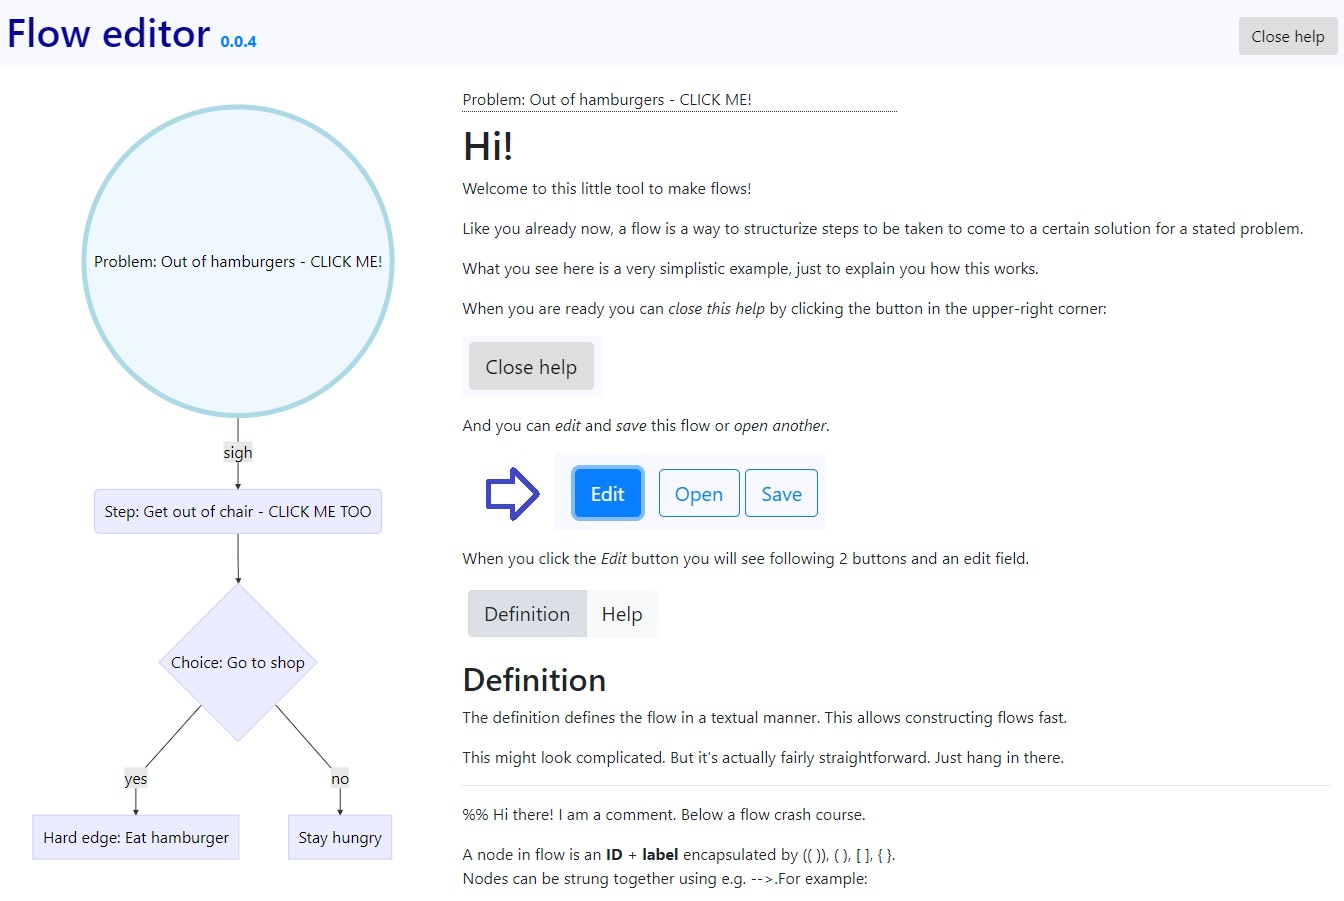
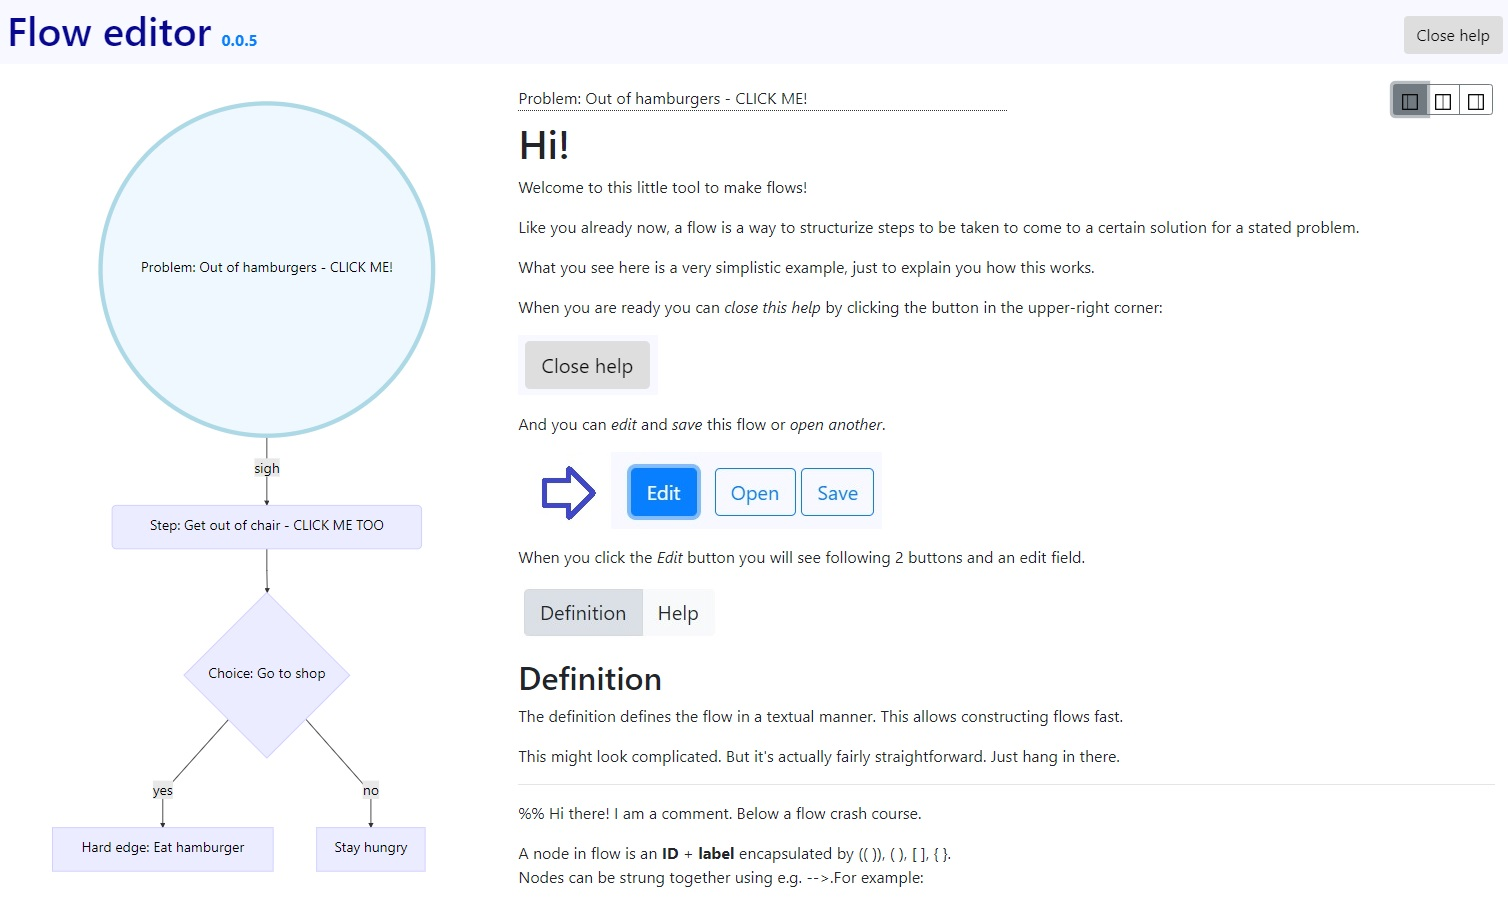
#6

diff --git a/js/main.js b/js/main.js
@@ -23,12 +23,15 @@ let converter = new showdown.Converter({
 let delayRenderingTimeout;
 let wasEditPaneFirstTimeVisible = false;
 let graphDivColumnClass = columnClasses.full;
+let graphDivColumnClassSized = columnClasses.half;
+let otherColumnClassSized = columnClasses.half;
 let originalSvgWidth;
 let editState = editStates.graph;
 let errorText = '';
 let isEditPaneVisible = false;
 let windowScrollY = 0;
 let currentSelectedNode;
+let currentSelectedNodeId;
 
 let definition = `%% Hi there! I am a comment. Below a flow crash course.
 
@@ -411,6 +414,7 @@ const findNodeLayer = (nodeId) => {
 const bindNodeClick = () => {
     $('#graph-diagram .nodes .node').click(function () {
         $('#help-pane').hide();
+        $('[data-toggle="tooltip"]').tooltip('dispose');
 
         windowScrollY = window.pageYOffset;
 
@@ -425,6 +429,7 @@ const bindNodeClick = () => {
         if (currentSelectedNode) {
             currentSelectedNode.removeClass('nodeSelected');
         }
+        currentSelectedNodeId = $(this)[0].id;
         currentSelectedNode = $($(this)[0].children[0]);
         currentSelectedNode.addClass('nodeSelected');
         // behavior: smooth is not used because it results in a wrong offset of #nodeHelp.
@@ -433,8 +438,10 @@ const bindNodeClick = () => {
 
         $('#help-pane').html(nodeHelp);
 
-        graphDivColumnClass = columnClasses.veryNarrow;
+        graphDivColumnClass = graphDivColumnClassSized;
         $('#graph-div')[0].className = graphDivColumnClass;
+        $('#edit-pane')[0].className = otherColumnClassSized;
+        $('#help-pane')[0].className = otherColumnClassSized;
 
         $('#save-btn').hide();
         $('#open-file-lbl').hide();
@@ -442,15 +449,14 @@ const bindNodeClick = () => {
         $('#edit-pane').hide();
         $('#help-pane').fadeIn();
         $('#close-help-btn').show();
+        $('#size-controls').show();
 
-        $('#node-help-div').offset({ top: window.pageYOffset + $('#help-pane').offset().top, left: $('#node-help-div').offset().left })
-
-        //$('#node-help-div::before').height($('#node-help-div').offset().top);
+        $('#node-help-div').offset({ top: window.pageYOffset + $('#help-pane').offset().top, left: $('#node-help-div').offset().left });
     });
 };
 // Only when editting
 const bindNodeHover = () => {
-    if ($('#edit-pane').attr('style').indexOf('display: none') === -1) {
+    if (isEditPaneVisible) {
         $.each($('#graph-diagram .nodes .node'), (index, value) => {
             let node = $(value);
 
@@ -469,12 +475,19 @@ const bindNodeHover = () => {
 const editBtnClick = () => {
     if ($('#edit-pane').attr('style').indexOf('display: none') === -1) {
         graphDivColumnClass = columnClasses.full;
-        isEditPaneVisible = false;
-        
+
         $('[data-toggle="tooltip"]').tooltip('dispose');
+        $('#size-controls').hide();
+
+        isEditPaneVisible = false;
     }
     else {
-        graphDivColumnClass = columnClasses.narrow;
+        graphDivColumnClass = graphDivColumnClassSized;
+        $('#edit-pane')[0].className = otherColumnClassSized;
+        $('#help-pane')[0].className = otherColumnClassSized;
+
+        $('#size-controls').show();
+
         isEditPaneVisible = true;
     }
     $('#edit-pane').toggle();
@@ -552,14 +565,20 @@ const closeHelpBtnClick = () => {
     $('#help-pane').hide();
 
     if (isEditPaneVisible) {
+        graphDivColumnClass = graphDivColumnClassSized;
+        $('#edit-pane')[0].className = otherColumnClassSized;
+        $('#help-pane')[0].className = otherColumnClassSized;
+
         $('#edit-pane').show();
-        graphDivColumnClass = columnClasses.narrow;
+        $('#size-controls').show();
     }
     else {
         graphDivColumnClass = columnClasses.full;
+        $('#size-controls').hide();
     }
     if (currentSelectedNode) {
         currentSelectedNode.removeClass('nodeSelected');
+        currentSelectedNodeId = null;
     }
     $('#graph-div')[0].className = graphDivColumnClass;
 
@@ -579,10 +598,38 @@ const helpBtnChange = () => {
 };
 //#endregion
 
+const size = (leftColumnClass, rightColumnClass) => {
+    graphDivColumnClassSized = leftColumnClass;
+    otherColumnClassSized = rightColumnClass;
+    graphDivColumnClass = graphDivColumnClassSized;
+
+    renderGraph();
+
+    if (currentSelectedNodeId) {
+        currentSelectedNode = $($('#' + currentSelectedNodeId)[0].children[0]);
+        currentSelectedNode.addClass('nodeSelected');
+
+        currentSelectedNode[0].scrollIntoView({ block: 'center' });
+    }
+
+    $('#edit-pane')[0].className = otherColumnClassSized;
+    $('#help-pane')[0].className = otherColumnClassSized;
+
+    // Workaround for the toggle button active states to work as they should.
+    setTimeout(() => {
+        $('#node-help-div').offset({ top: window.pageYOffset + $('#help-pane').offset().top, left: $('#node-help-div').offset().left });
+    }, 10);
+};
+
 const main = () => {
     $('#open-file').change(openFileChange);
     $('#save-btn').click(saveBtnClick);
     $('#edit-btn').click(editBtnClick);
+
+    $('#small-column-left').change(() => { size(columnClasses.veryNarrow, columnClasses.narrow) });
+    $('#equal-sized-columns').change(() => { size(columnClasses.half, columnClasses.half) });
+    $('#small-column-right').change(() => { size(columnClasses.narrow, columnClasses.veryNarrow) });
+
     $('#close-help-btn').click(closeHelpBtnClick);
     $('#definition-btn').change(definitionBtnChange);
     $('#help-btn').change(helpBtnChange);

diff --git a/index.html b/index.html
@@ -1,8 +1,7 @@
 <!DOCTYPE html>
 <html>
-
 <head>
-    <title>Flow editor 0.0.4</title>
+    <title>Flow editor 0.0.5</title>
     <meta charset="utf-8">
     <meta name="viewport" content="width=device-width, initial-scale=1.0">
     <link rel="apple-touch-icon" sizes="180x180" href="apple-touch-icon.png?v=gAdOdr5nJd">
@@ -18,11 +17,10 @@
     <link rel="stylesheet" href="css/main.css">
     <link rel="stylesheet" href="css/table.css">
 </head>
-
 <body>
     <div id="menu">
         <span id="title">
-            <h1>Flow editor</h1><strong><a href="https://github.com/Didjeeh/floweditor" target="_blank">0.0.4</a></strong>
+            <h1>Flow editor</h1><strong><a href="https://github.com/Didjeeh/floweditor" target="_blank">0.0.5</a></strong>
         </span>
         <span id="controls">
             <button class="btn btn-primary other-controls" id="edit-btn" type="button" data-toggle="button"
@@ -35,9 +33,23 @@
         </span>
         </span>
     </div>
+    <div id="size-controls" class="btn-group btn-group-toggle" data-toggle="buttons" style="display: none">
+        <label class="btn btn-outline-secondary btn-sm">
+            <input type="radio" name="options" id="small-column-left">
+            <img src="img/small-column-left-16.png" />
+        </label>
+        <label class="btn btn-outline-secondary btn-sm active">
+            <input type="radio" name="options" id="equal-sized-columns" checked>
+            <img src="img/equal-sized-columns-16.png" />
+        </label>
+        <label class="btn btn-outline-secondary btn-sm">
+            <input type="radio" name="options" id="small-column-right">
+            <img src="img/small-column-right-16.png" />
+        </label>
+    </div>
     <div id="container" class="container-fluid">
         <div class="row">
-            <div id="edit-pane" class="col-4" style="display: none">
+            <div id="edit-pane" class="col-6" style="display: none">
                 <div id="edit-pane-head">
                     <div class="btn-group btn-group-toggle" data-toggle="buttons">
                         <label class="btn btn-light active">
@@ -56,14 +68,12 @@
                     <textarea id="graph-txt"></textarea>
                 </div>
             </div>
-            <div id="help-pane" class="col-8" style="display: none">
+            <div id="help-pane" class="col-6" style="display: none">
             </div>
         </div>
     </div>
-
-
     <script src="https://code.jquery.com/jquery-3.3.1.min.js" integrity="sha256-FgpCb/KJQlLNfOu91ta32o/NMZxltwRo8QtmkMRdAu8="
-        crossorigin="anonymous"></script>        
+        crossorigin="anonymous"></script>
     <script src="https://unpkg.com/popper.js@1.14.6/dist/umd/popper.min.js"></script>
     <script src="https://maxcdn.bootstrapcdn.com/bootstrap/4.0.0/js/bootstrap.min.js" integrity="sha384-JZR6Spejh4U02d8jOt6vLEHfe/JQGiRRSQQxSfFWpi1MquVdAyjUar5+76PVCmYl"
         crossorigin="anonymous"></script>
@@ -75,5 +85,4 @@
         crossorigin="anonymous"></script>
     <script src="js/main.js"></script>
 </body>
-
 </html>

diff --git a/css/main.css b/css/main.css
@@ -10,7 +10,7 @@ position: fixed;
 width: 100%;
 background-color: ghostwhite;
 opacity: 0.97;
-z-index: 2;
+z-index: 3;
 }
 #menu h1 {
 color: darkblue;
@@ -44,16 +44,22 @@ top: 80px;
 position: relative;
 width: 99%;
 }
+#size-controls {
+position: fixed;
+top: 88px;
+right: 20px;
+background-color: #FFF;
+opacity: 0.97;
+z-index: 2;
+}
 #graph-div {
 text-align: center;
 }
-
 #node-help-head {
 display: block;
 border-bottom:1px dotted #323232;
 width:50%;
 }
-
 .nodes .node {
 color: black;
 cursor: pointer;

diff --git a/README.md b/README.md
@@ -3,10 +3,11 @@
 **Live demo [HERE](https://didjeeh.github.io/floweditor)**
 
 # Versions
-*   2018-12-21: 0.0.4 - More performant help and debugged help selectors
-*   2018-12-19: 0.0.3 - Help next to flow and node tooltips
+*   2019-01-03: 0.0.5     - Added column layouting option
+*   2018-12-21: 0.0.4     - More performant help and debugged help selectors
+*   2018-12-19: 0.0.3     - Help next to flow and node tooltips
 *   2018-12-04: pre-0.0.3 - Help next to flow (needs some work)
-*   2018-11-29: 0.0.2 - More user friendly
+*   2018-11-29: 0.0.2     - More user friendly
 *   2018-11-28: 0.0.1
 
 # Intro
@@ -27,12 +28,12 @@ See the versions of these in the source of index.html.
 Sufficient help is provided in the app itself.
 
 # Credit
-*   Favicon: <https://www.iconfinder.com/icons/216628/flow_icon>, Daniel Bruce,
-Creative Commons Attribution-Share Alike 3.0 Unported License
-*   Visual styling: <https://getbootstrap.com>, <https://popper.js.org>
-*   Flows: <https://mermaidjs.github.io>
-*   Mardkdown editor: <https://simplemde.com/> and <https://codemirror.net>
-*   Markdown parser: <https://marked.js.org> and <http://showdownjs.com>
-*   SQL helper: <https://github.com/kripken/sql.js>
-*   Saving (downloading) files: <https://github.com/eligrey/FileSaver.js>
+*   Favicon:                <https://www.iconfinder.com/icons/216628/flow_icon>, Daniel Bruce, Creative Commons Attribution-Share Alike 3.0 Unported License
+*   Layout icons:           <https://www.iconfinder.com/iconsets/interface-12>, Zlatko Najdenovski, Free for personal use only license
+*   Visual styling:         <https://getbootstrap.com>, <https://popper.js.org>
+*   Flows:                  <https://mermaidjs.github.io>
+*   Mardkdown editor:       <https://simplemde.com/> and <https://codemirror.net>
+*   Markdown parser:        <https://marked.js.org> and <http://showdownjs.com>
+*   SQL helper:             <https://github.com/kripken/sql.js>
+*   Saving files:           <https://github.com/eligrey/FileSaver.js>
 *   Other javascript stuff: <https://jquery.com>
